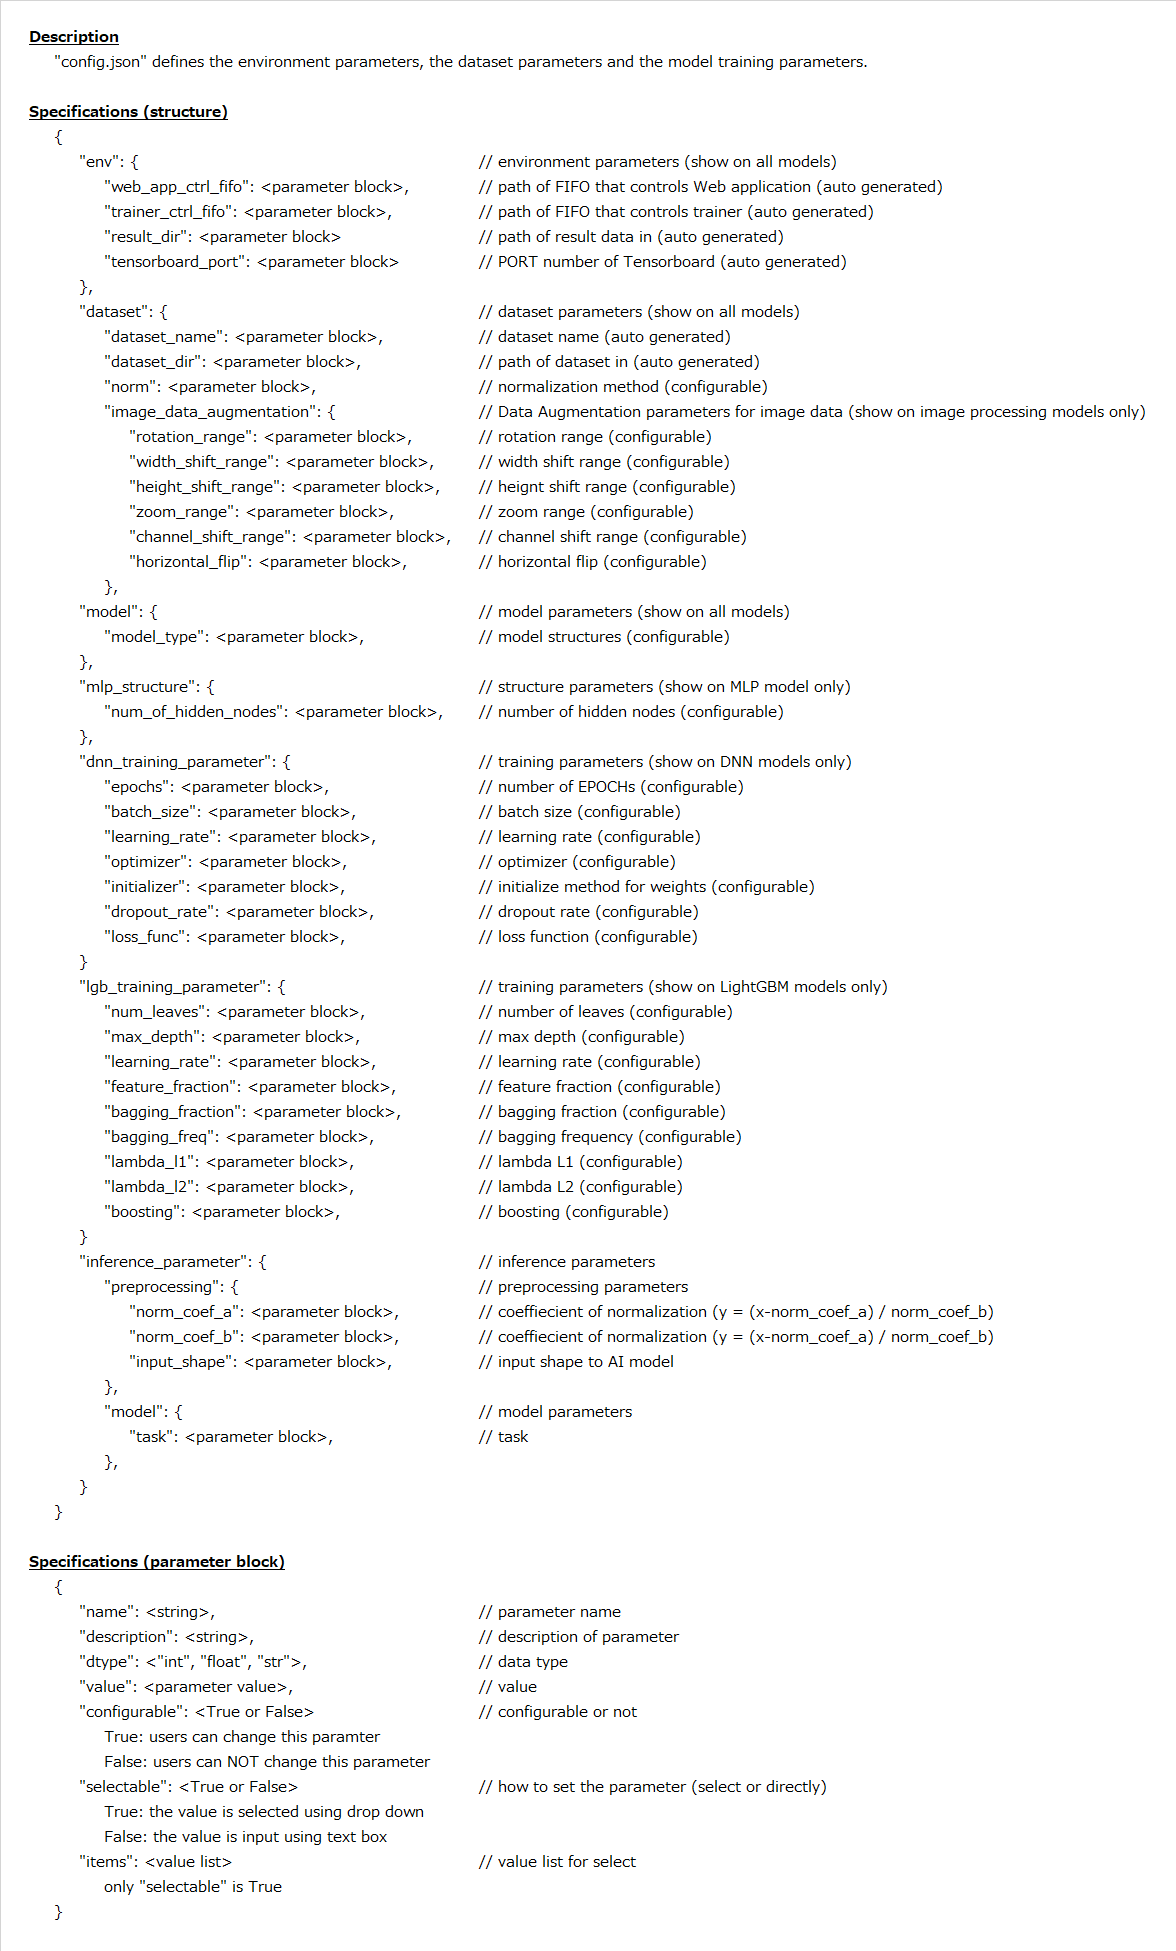
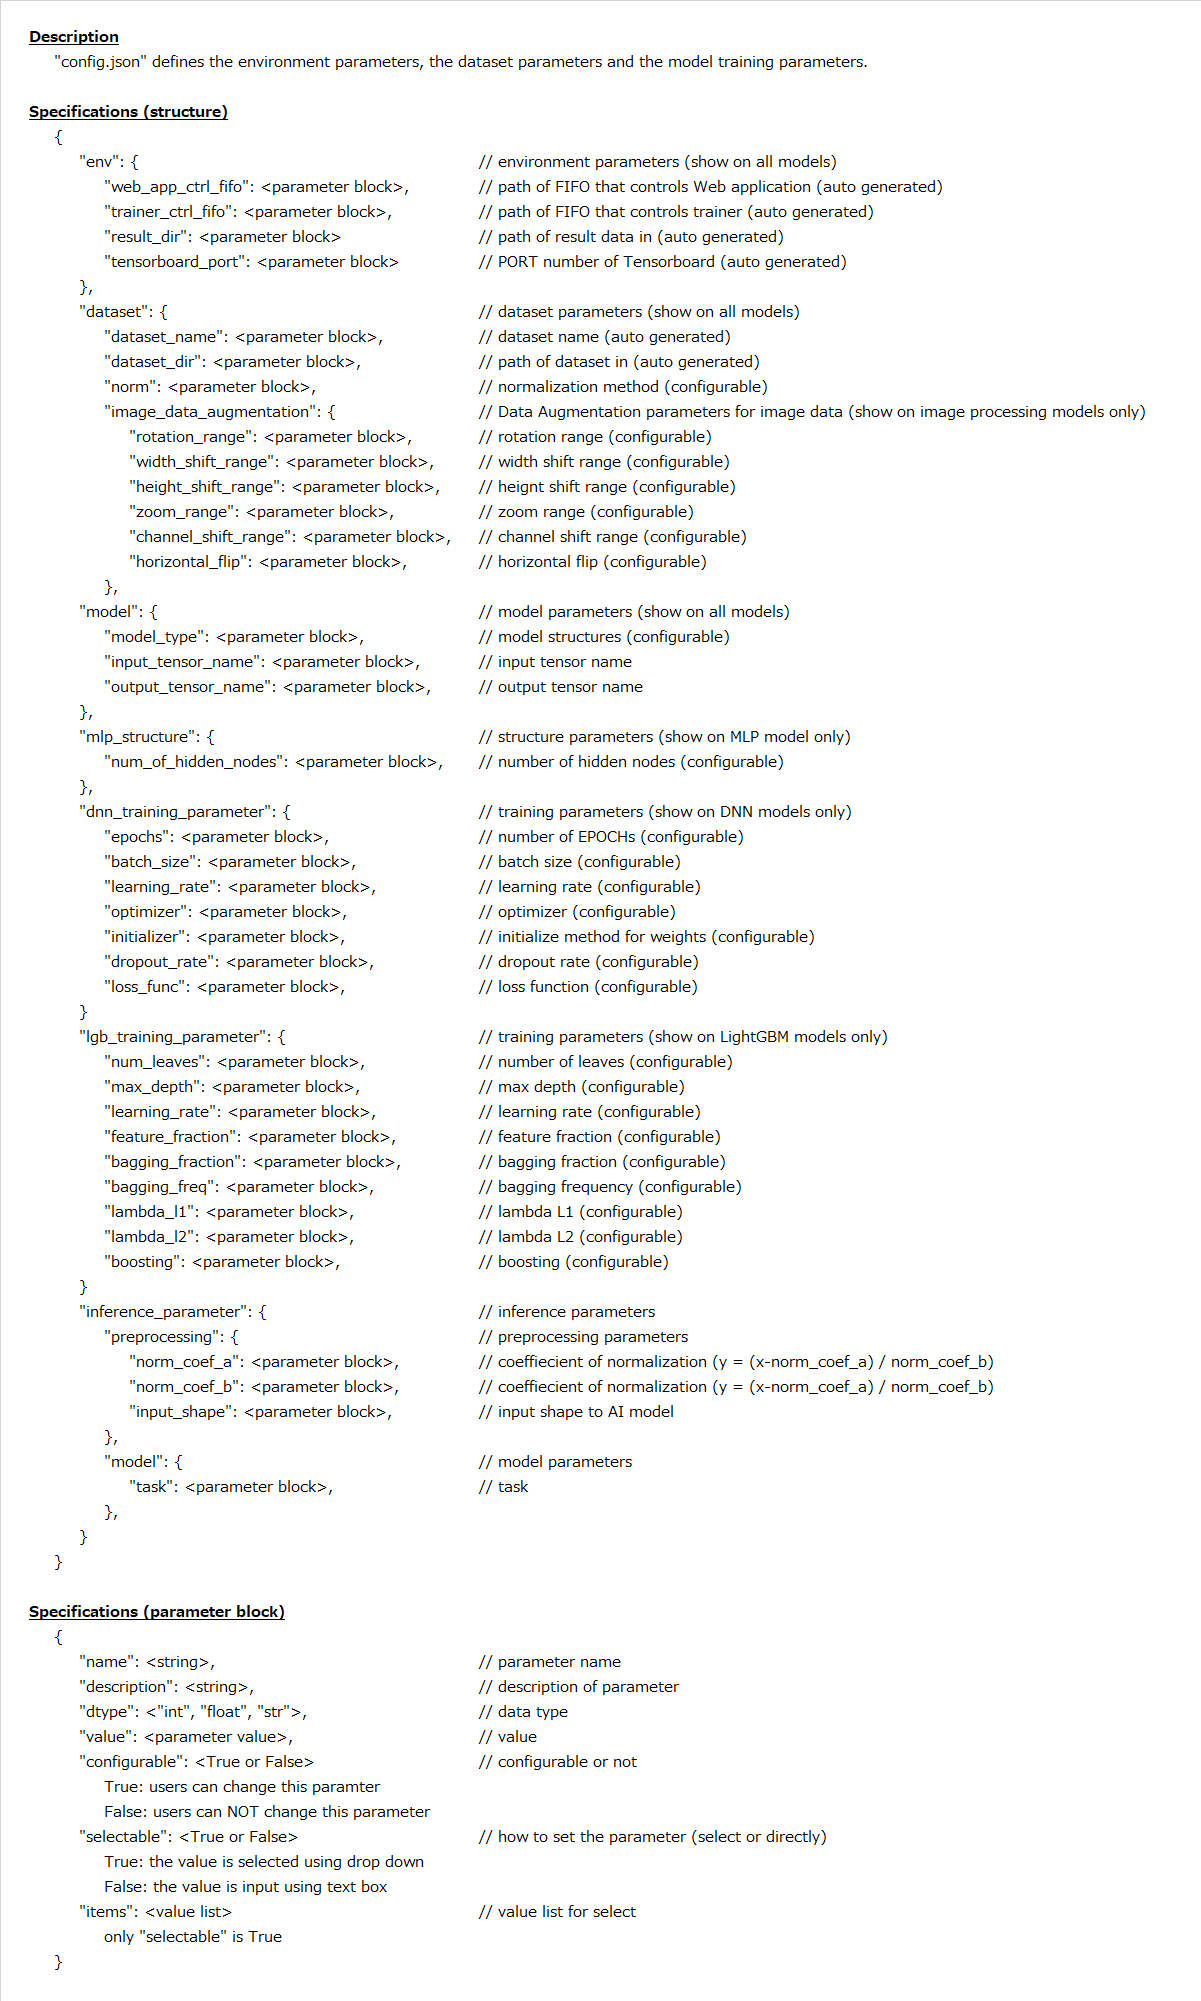
save input and output tensor name to config.json

diff --git a/django_project/app/machine_learning/lib/trainer/trainer_keras.py b/django_project/app/machine_learning/lib/trainer/trainer_keras.py
@@ -144,11 +144,11 @@ class Trainer():
         # --- モデル構築 ---
         def _load_model(model_file):
             if (model_file is not None):
-                return keras.models.load_model(model_file)
+                return keras.models.load_model(model_file), '', ''
             else:
-                return None
+                return None, '', ''
         
-        self.model = _load_model(model_file)
+        self.model, self.input_tensor_name, self.output_tensor_name = _load_model(model_file)
         if (self.model is not None):
             self._compile_model(optimizer=self.optimizer, loss=self.loss, init_lr=self.learning_rate)
         
@@ -519,12 +519,12 @@ class TrainerKerasResNet(Trainer):
 
             x = keras.layers.GlobalAveragePooling2D(name='avg_pool')(x)
             x = keras.layers.Dropout(dropout_rate)(x)
-            x = keras.layers.Dense(classes, activation='softmax', name='predictions')(x)
+            y = keras.layers.Dense(classes, activation='softmax', name='predictions')(x)
             
-            model = keras.models.Model(input, x)
+            model = keras.models.Model(input, y)
             model.summary()
             
-            return model
+            return model, input.name, y.name
             
         # --- モデル構築 ---
         #  * stack_fn()の関数ポインタを引数に設定してカスタマイズ
@@ -546,12 +546,12 @@ class TrainerKerasResNet(Trainer):
 
             x = keras.layers.GlobalAveragePooling2D(name='avg_pool')(x)
             x = keras.layers.Dropout(dropout_rate)(x)
-            x = keras.layers.Dense(classes, activation='softmax', name='predictions')(x)
+            y = keras.layers.Dense(classes, activation='softmax', name='predictions')(x)
             
-            model = keras.models.Model(input, x)
+            model = keras.models.Model(input, y)
             model.summary()
             
-            return model
+            return model, input.name, y.name
             
         def _load_model_resnet50(input_shape, classes, initializer='glorot_uniform', dropout_rate=0.0, pretrained=True):
             # --- TensorFlowのResNet50のモデル ---
@@ -587,7 +587,7 @@ class TrainerKerasResNet(Trainer):
                     x = stack1(x, 32, 3, stride1=1, dropout_rate=dropout_rate, name='conv2')
                     return stack1(x, 64, 4, dropout_rate=dropout_rate, name='conv3')
                 
-                self.model = _load_model(input_shape, classes, stack_fn, initializer=self.initializer, dropout_rate=self.dropout_rate)
+                self.model, self.input_tensor_name, self.output_tensor_name = _load_model(input_shape, classes, stack_fn, initializer=self.initializer, dropout_rate=self.dropout_rate)
                 self._compile_model(optimizer=self.optimizer, loss=self.loss, init_lr=self.learning_rate)
             elif (model_type == 'custom_deep'):
                 def stack_fn(x, dropout_rate=0.0):
@@ -595,10 +595,10 @@ class TrainerKerasResNet(Trainer):
                     x = stack1(x, 32, 18, dropout_rate=dropout_rate, name='conv3')
                     return stack1(x, 64, 18, dropout_rate=dropout_rate, name='conv4')
                 
-                self.model = _load_model_deep(input_shape, classes, stack_fn, initializer=self.initializer, dropout_rate=self.dropout_rate)
+                self.model, self.input_tensor_name, self.output_tensor_name = _load_model_deep(input_shape, classes, stack_fn, initializer=self.initializer, dropout_rate=self.dropout_rate)
                 self._compile_model(optimizer=self.optimizer, loss=self.loss, init_lr=self.learning_rate)
             elif (model_type == 'resnet50'):
-                self.model = _load_model_resnet50(input_shape, classes, initializer=self.initializer, dropout_rate=self.dropout_rate, pretrained=False)
+                self.model, self.input_tensor_name, self.output_tensor_name = _load_model_resnet50(input_shape, classes, initializer=self.initializer, dropout_rate=self.dropout_rate, pretrained=False)
                 self._compile_model(optimizer=self.optimizer, loss=self.loss, init_lr=self.learning_rate)
             else:
                 print('[ERROR] Unknown model_type: {}'.format(model_type))
@@ -655,20 +655,22 @@ class TrainerKerasCNN(Trainer):
         
         # --- モデル構築(baseline) ---
         def _load_model(input_shape, initializer='glorot_uniform'):
-            model = keras.models.Sequential()
-            model.add(keras.layers.Conv2D(32, (3, 3), activation='relu', input_shape=input_shape, kernel_initializer=initializer))
-            model.add(keras.layers.MaxPooling2D((2, 2)))
-            model.add(keras.layers.Conv2D(64, (3, 3), activation='relu', kernel_initializer=initializer))
-            model.add(keras.layers.MaxPooling2D((2, 2)))
-            model.add(keras.layers.Conv2D(64, (3, 3), activation='relu', kernel_initializer=initializer))
-            model.add(keras.layers.MaxPooling2D((2, 2)))
-            model.add(keras.layers.Flatten(input_shape=input_shape))
-            model.add(keras.layers.Dense(64, activation='relu'))
-            model.add(keras.layers.Dense(classes, activation='softmax'))
+            input = keras.layers.Input(shape=input_shape)
             
+            x = keras.layers.Conv2D(32, (3, 3), activation='relu', input_shape=input_shape, kernel_initializer=initializer)(input)
+            x = keras.layers.MaxPooling2D((2, 2))(x)
+            x = keras.layers.Conv2D(64, (3, 3), activation='relu', kernel_initializer=initializer)(x)
+            x = keras.layers.MaxPooling2D((2, 2))(x)
+            x = keras.layers.Conv2D(64, (3, 3), activation='relu', kernel_initializer=initializer)(x)
+            x = keras.layers.MaxPooling2D((2, 2))(x)
+            x = keras.layers.Flatten()(x)
+            x = keras.layers.Dense(64, activation='relu')(x)
+            y = keras.layers.Dense(classes, activation='softmax')(x)
+            
+            model = keras.models.Model(input, y)
             model.summary()
             
-            return model
+            return model, input.name, y.name
         
         # --- モデル構築(deep_model) ---
         def _load_model_deep(input_shape, initializer='glorot_uniform'):
@@ -703,12 +705,12 @@ class TrainerKerasCNN(Trainer):
             x = keras.layers.Dropout(0.5)(x)
             x = keras.layers.Dense(1024, activation="relu")(x)
             x = keras.layers.Dropout(0.5)(x)
-            x = keras.layers.Dense(classes, activation="softmax")(x)
+            y = keras.layers.Dense(classes, activation="softmax")(x)
             
-            model = keras.models.Model(input, x)
+            model = keras.models.Model(input, y)
             model.summary()
             
-            return model
+            return model, input.name, y.name
         
         # --- 基底クラスの初期化 ---
         super().__init__(output_dir=output_dir, model_file=model_file,
@@ -721,9 +723,9 @@ class TrainerKerasCNN(Trainer):
         # --- モデル構築 ---
         if (self.model is None):
             if (model_type == 'baseline'):
-                self.model = _load_model(input_shape, initializer=self.initializer)
+                self.model, self.input_tensor_name, self.output_tensor_name = _load_model(input_shape, initializer=self.initializer)
             elif (model_type == 'deep_model'):
-                self.model = _load_model_deep(input_shape, initializer=self.initializer)
+                self.model, self.input_tensor_name, self.output_tensor_name = _load_model_deep(input_shape, initializer=self.initializer)
             else:
                 print('[ERROR] Unknown model_type: {}'.format(model_type))
                 quit()
@@ -788,21 +790,23 @@ class TrainerKerasMLP(Trainer):
                 hidden_activation = 'sigmoid'
                 output_activation = 'linear'
             
-            model = keras.models.Sequential()
-            model.add(keras.layers.Flatten(input_shape=input_shape))
-            for num in self.num_of_hidden_nodes:
-                model.add(keras.layers.Dense(num,
-                                             kernel_initializer=self.initializer,
-                                             bias_initializer='zeros',
-                                             activation=hidden_activation))
-            model.add(keras.layers.Dense(classes,
-                                         kernel_initializer=self.initializer,
-                                         bias_initializer='zeros',
-                                         activation=output_activation))
+            input = keras.layers.Input(shape=input_shape)
+            x = keras.layers.Flatten()(input)
+            for i, num in enumerate(self.num_of_hidden_nodes):
+                x = keras.layers.Dense(num,
+                                       kernel_initializer=self.initializer,
+                                       bias_initializer='zeros',
+                                       activation=hidden_activation,
+                                       name=f'dense_{i}')(x)
+            y = keras.layers.Dense(classes, 
+                                   kernel_initializer=self.initializer,
+                                   bias_initializer='zeros',
+                                   activation=output_activation)(x)
             
+            model = keras.models.Model(input, y)
             model.summary()
             
-            return model
+            return model, input.name, y.name
         
         # --- MLP固有パラメータの取得 ---
         self.num_of_hidden_nodes = pd.read_csv(io.StringIO(num_of_hidden_nodes), header=None, skipinitialspace=True).values[0].tolist()
@@ -817,7 +821,7 @@ class TrainerKerasMLP(Trainer):
         
         # --- モデル構築 ---
         if (self.model is None):
-            self.model = _load_model(input_shape)
+            self.model, self.input_tensor_name, self.output_tensor_name = _load_model(input_shape)
             self._compile_model(optimizer=self.optimizer, loss=self.loss, init_lr=self.learning_rate)
             if (self.output_dir is not None):
                 keras.utils.plot_model(self.model, Path(self.output_dir, 'plot_model.png'), show_shapes=True)

diff --git a/tools/create_config/ml_params.py b/tools/create_config/ml_params.py
@@ -132,6 +132,22 @@ class MlParams():
                     'selectable': True,
                     'items': ['MLP', 'SimpleCNN', 'DeepCNN', 'SimpleResNet', 'DeepResNet', 'LightGBM'],
                 },
+                'input_tensor_name': {
+                    'name': 'Input Tensor Name',
+                    'description': 'Input Tensor Name',
+                    'dtype': 'str',
+                    'value': '',
+                    'configurable': False,
+                    'selectable': False,
+                },
+                'output_tensor_name': {
+                    'name': 'Output Tensor Name',
+                    'description': 'Output Tensor Name',
+                    'dtype': 'str',
+                    'value': '',
+                    'configurable': False,
+                    'selectable': False,
+                },
             },
             'mlp_structure': {
                 'num_of_hidden_nodes': {

diff --git a/django_project/app/machine_learning/main.py b/django_project/app/machine_learning/main.py
@@ -241,6 +241,8 @@ def main():
         trainer.save_model()
         
         # --- update config file ---
+        config_data['model']['input_tensor_name']['value'] = trainer.input_tensor_name
+        config_data['model']['output_tensor_name']['value'] = trainer.output_tensor_name
         config_data['inference_parameter']['preprocessing']['norm_coef_a']['value'] = dataset.preprocessing_params['norm_coef'][0]
         config_data['inference_parameter']['preprocessing']['norm_coef_b']['value'] = dataset.preprocessing_params['norm_coef'][1]
         config_data['inference_parameter']['preprocessing']['input_shape']['value'] = dataset.train_x.shape[1:]

diff --git a/django_project/app/machine_learning/lib/trainer/trainer_lgb.py b/django_project/app/machine_learning/lib/trainer/trainer_lgb.py
@@ -59,6 +59,10 @@ class TrainerLightGBM():
         
         """
         
+        # --- Initialize ---
+        self.input_tensor_name = ''
+        self.output_tensor_name = ''
+        
         # --- Load parameters ---
         self.web_app_ctrl_fifo = web_app_ctrl_fifo
         self.trainer_ctrl_fifo = trainer_ctrl_fifo
